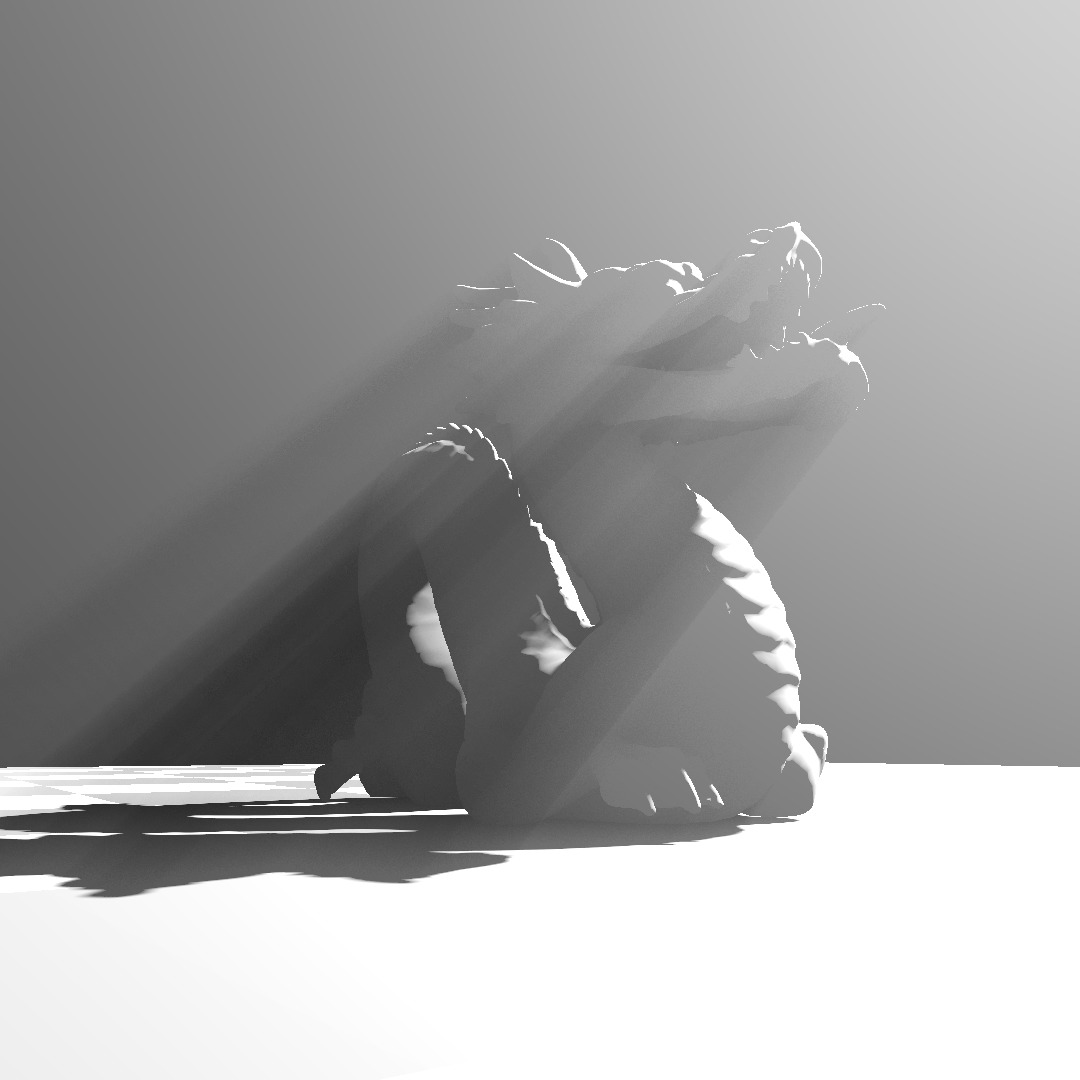
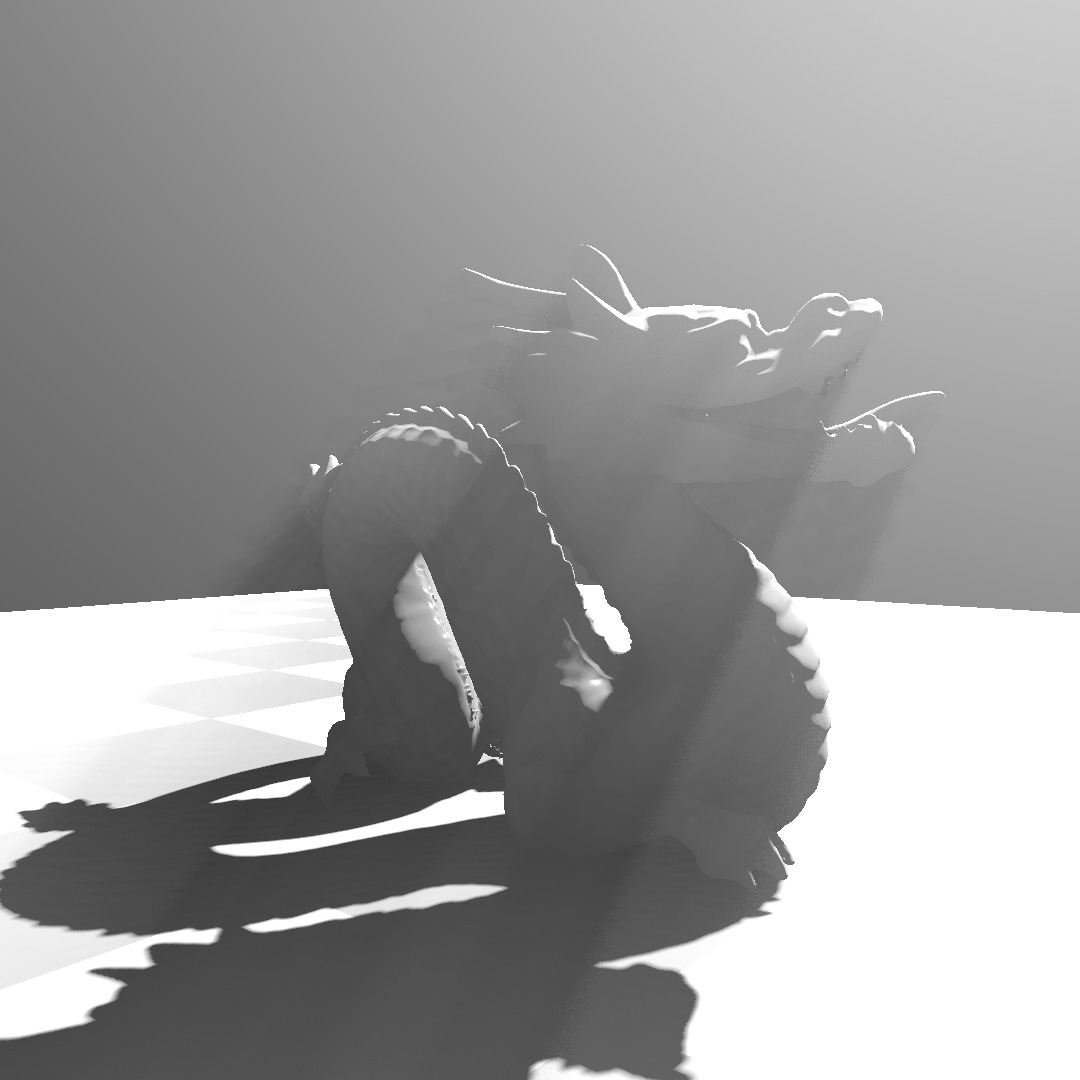
volumetric

diff --git a/README.md b/README.md
@@ -401,10 +401,19 @@ glslViewer assets/dragon.obj lighting_ssr.frag -e camera_position,1.43923,-0.891
 #### Volumetric Light Scattering (postprocessing/raymarching)
 
 ```bash
-glslViewer assets/dragon.obj lighting_volumetric.frag  -e camera_position,-2.11302,-0.541756,-1.42525 -l 
+glslViewer assets/dragon.obj lighting_volumetric.frag -e camera_position,-1.67433,0.0682091,-1.99539 -l 
 ```
 
 ![](images/lighting_volumetric.jpg)
+
+
+#### Volumetric Light Scattering with Cubemap(postprocessing/raymarching)
+
+```bash
+glslViewer assets/dragon.obj lighting_volumetric.frag -e camera_position,-1.67433,0.0682091,-1.99539 -C assets/Arches_E_PineTree_3k.hdr -l 
+```
+
+![](images/lighting_volumetric_cubemap.jpg)
 
 
 #### Raymarching 
@@ -452,7 +461,7 @@ glslViewer lighting_raymarching_glass.frag -e camera_position,-29.5393,-26.2406,
 ![](images/lighting_raymarching_glass_cubemap.jpg)
 
 
-#### Raymarching efault VOLUME
+#### Raymarching default VOLUME
 
 ```bash
 glslViewer lighting_raymarching_volume.frag -e camera_position,-29.5393,-26.2406,-42.1865 -l
